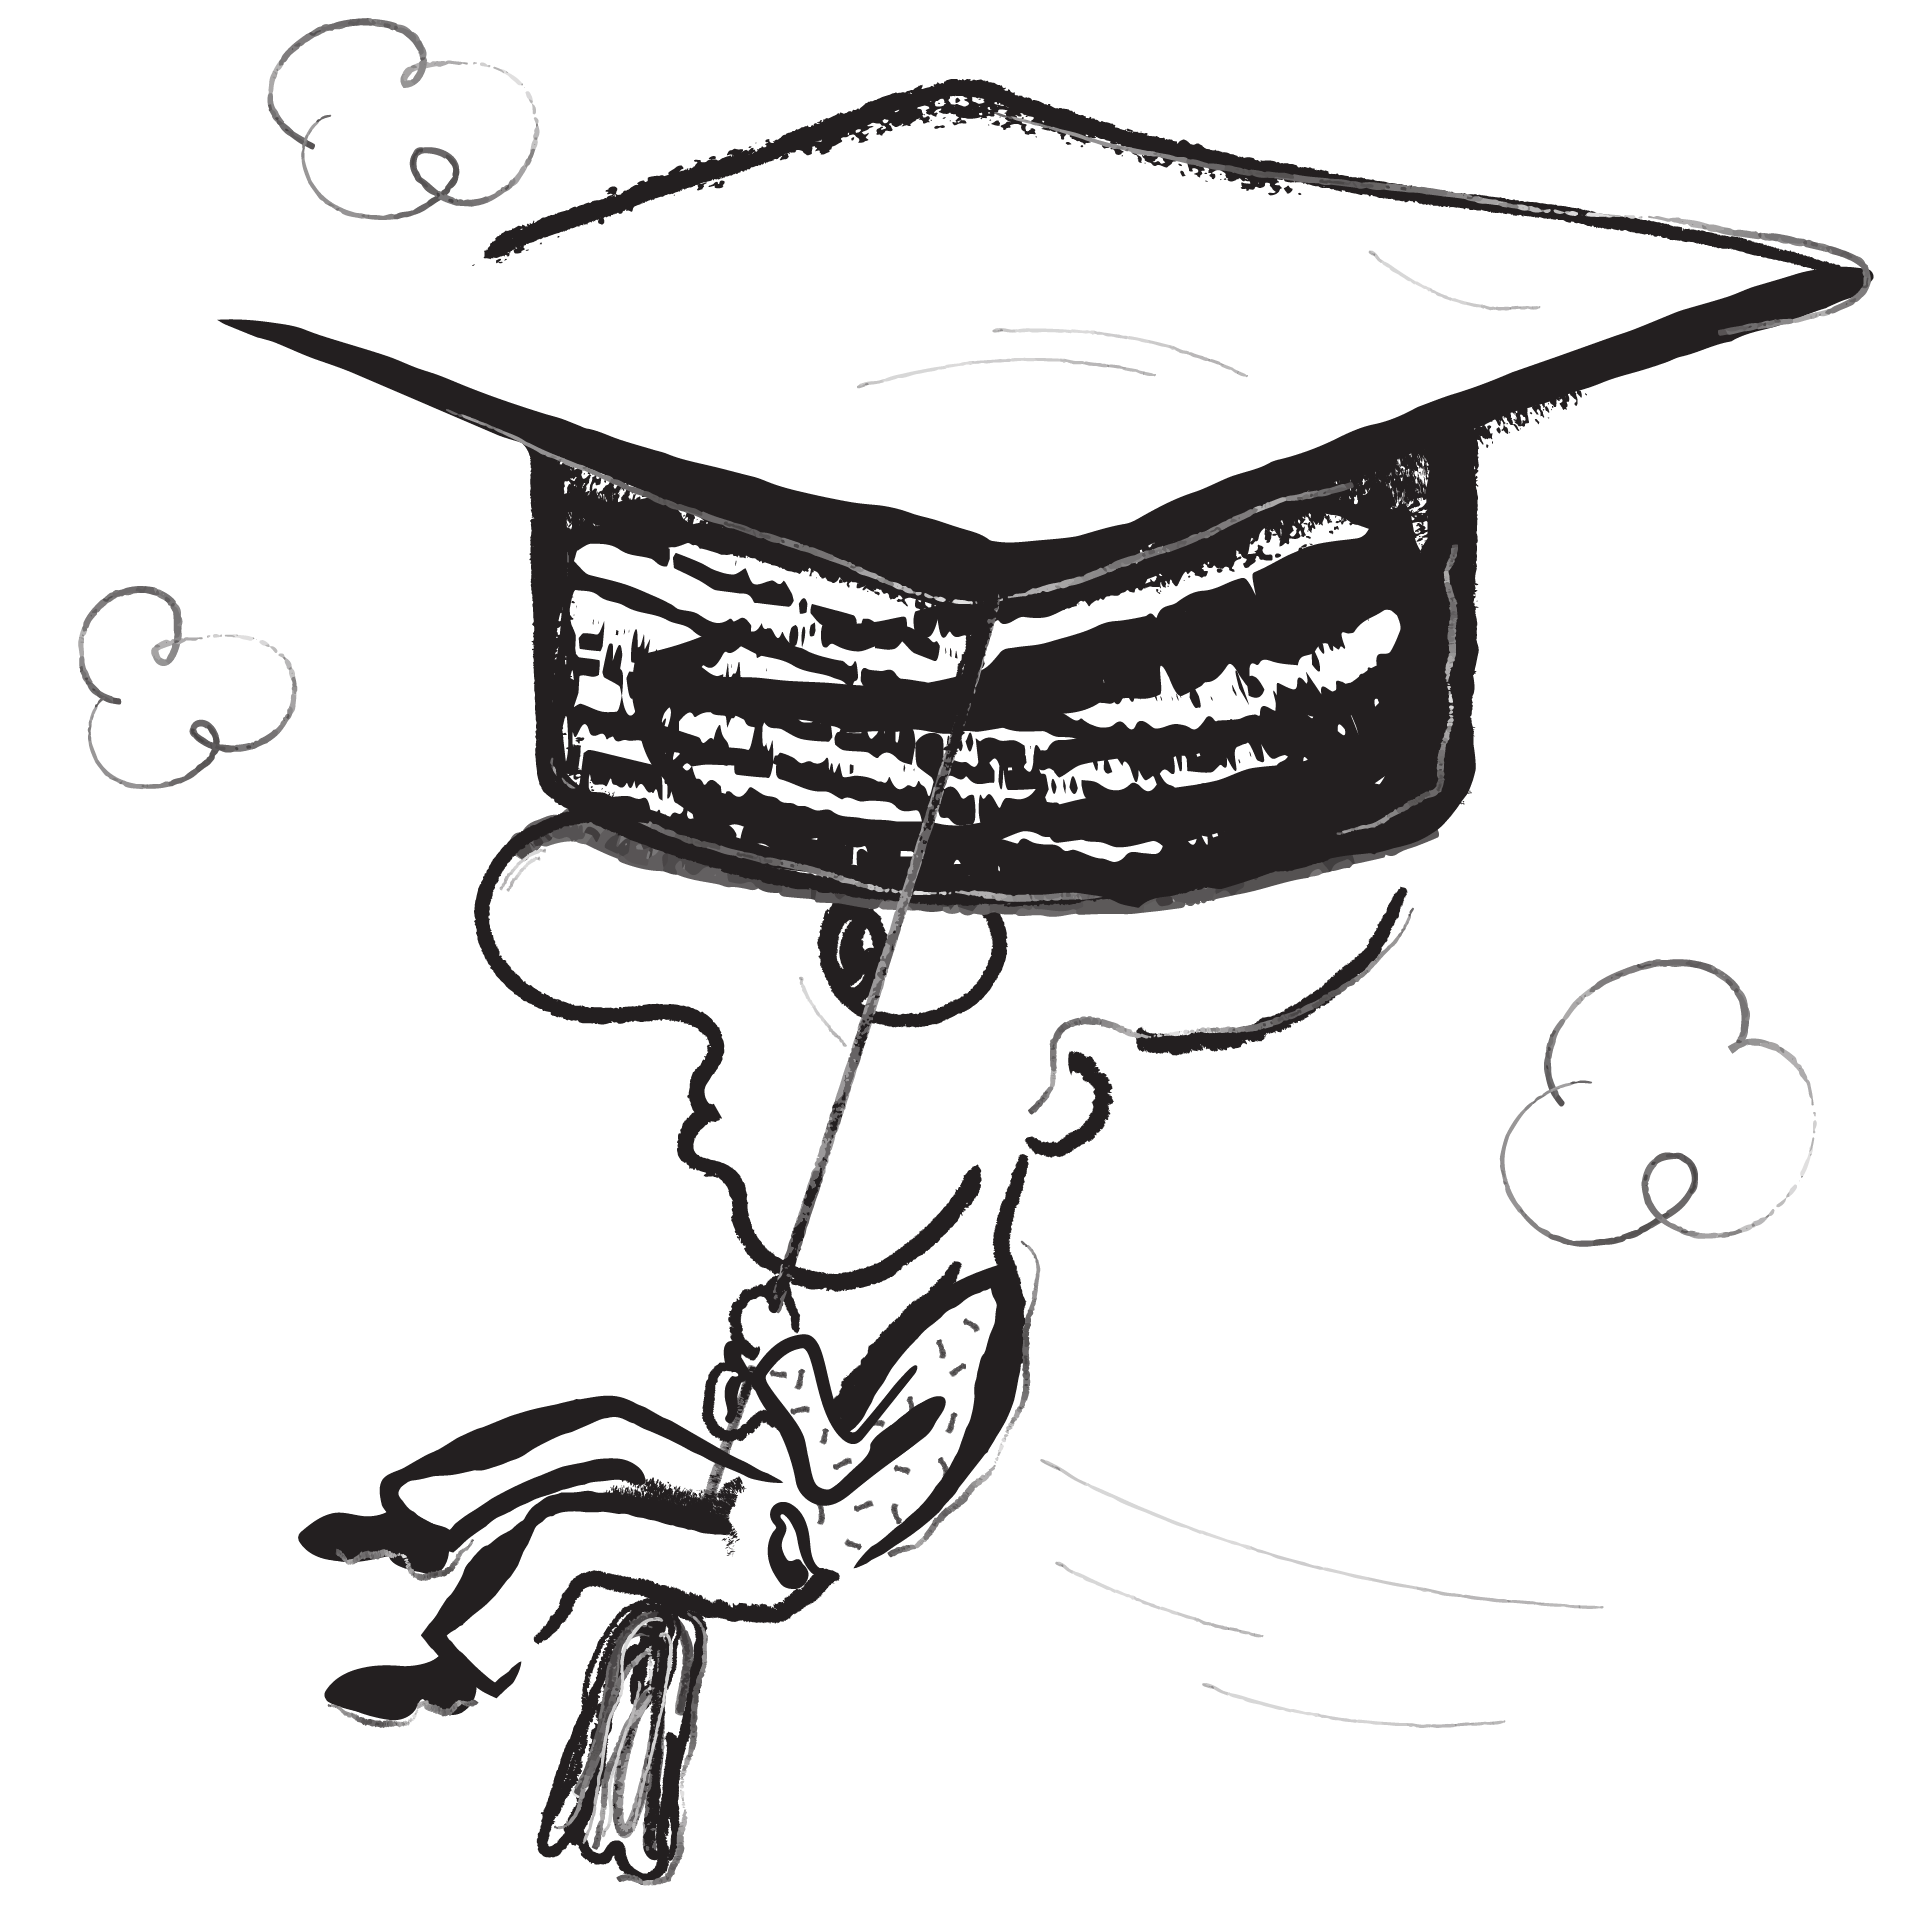
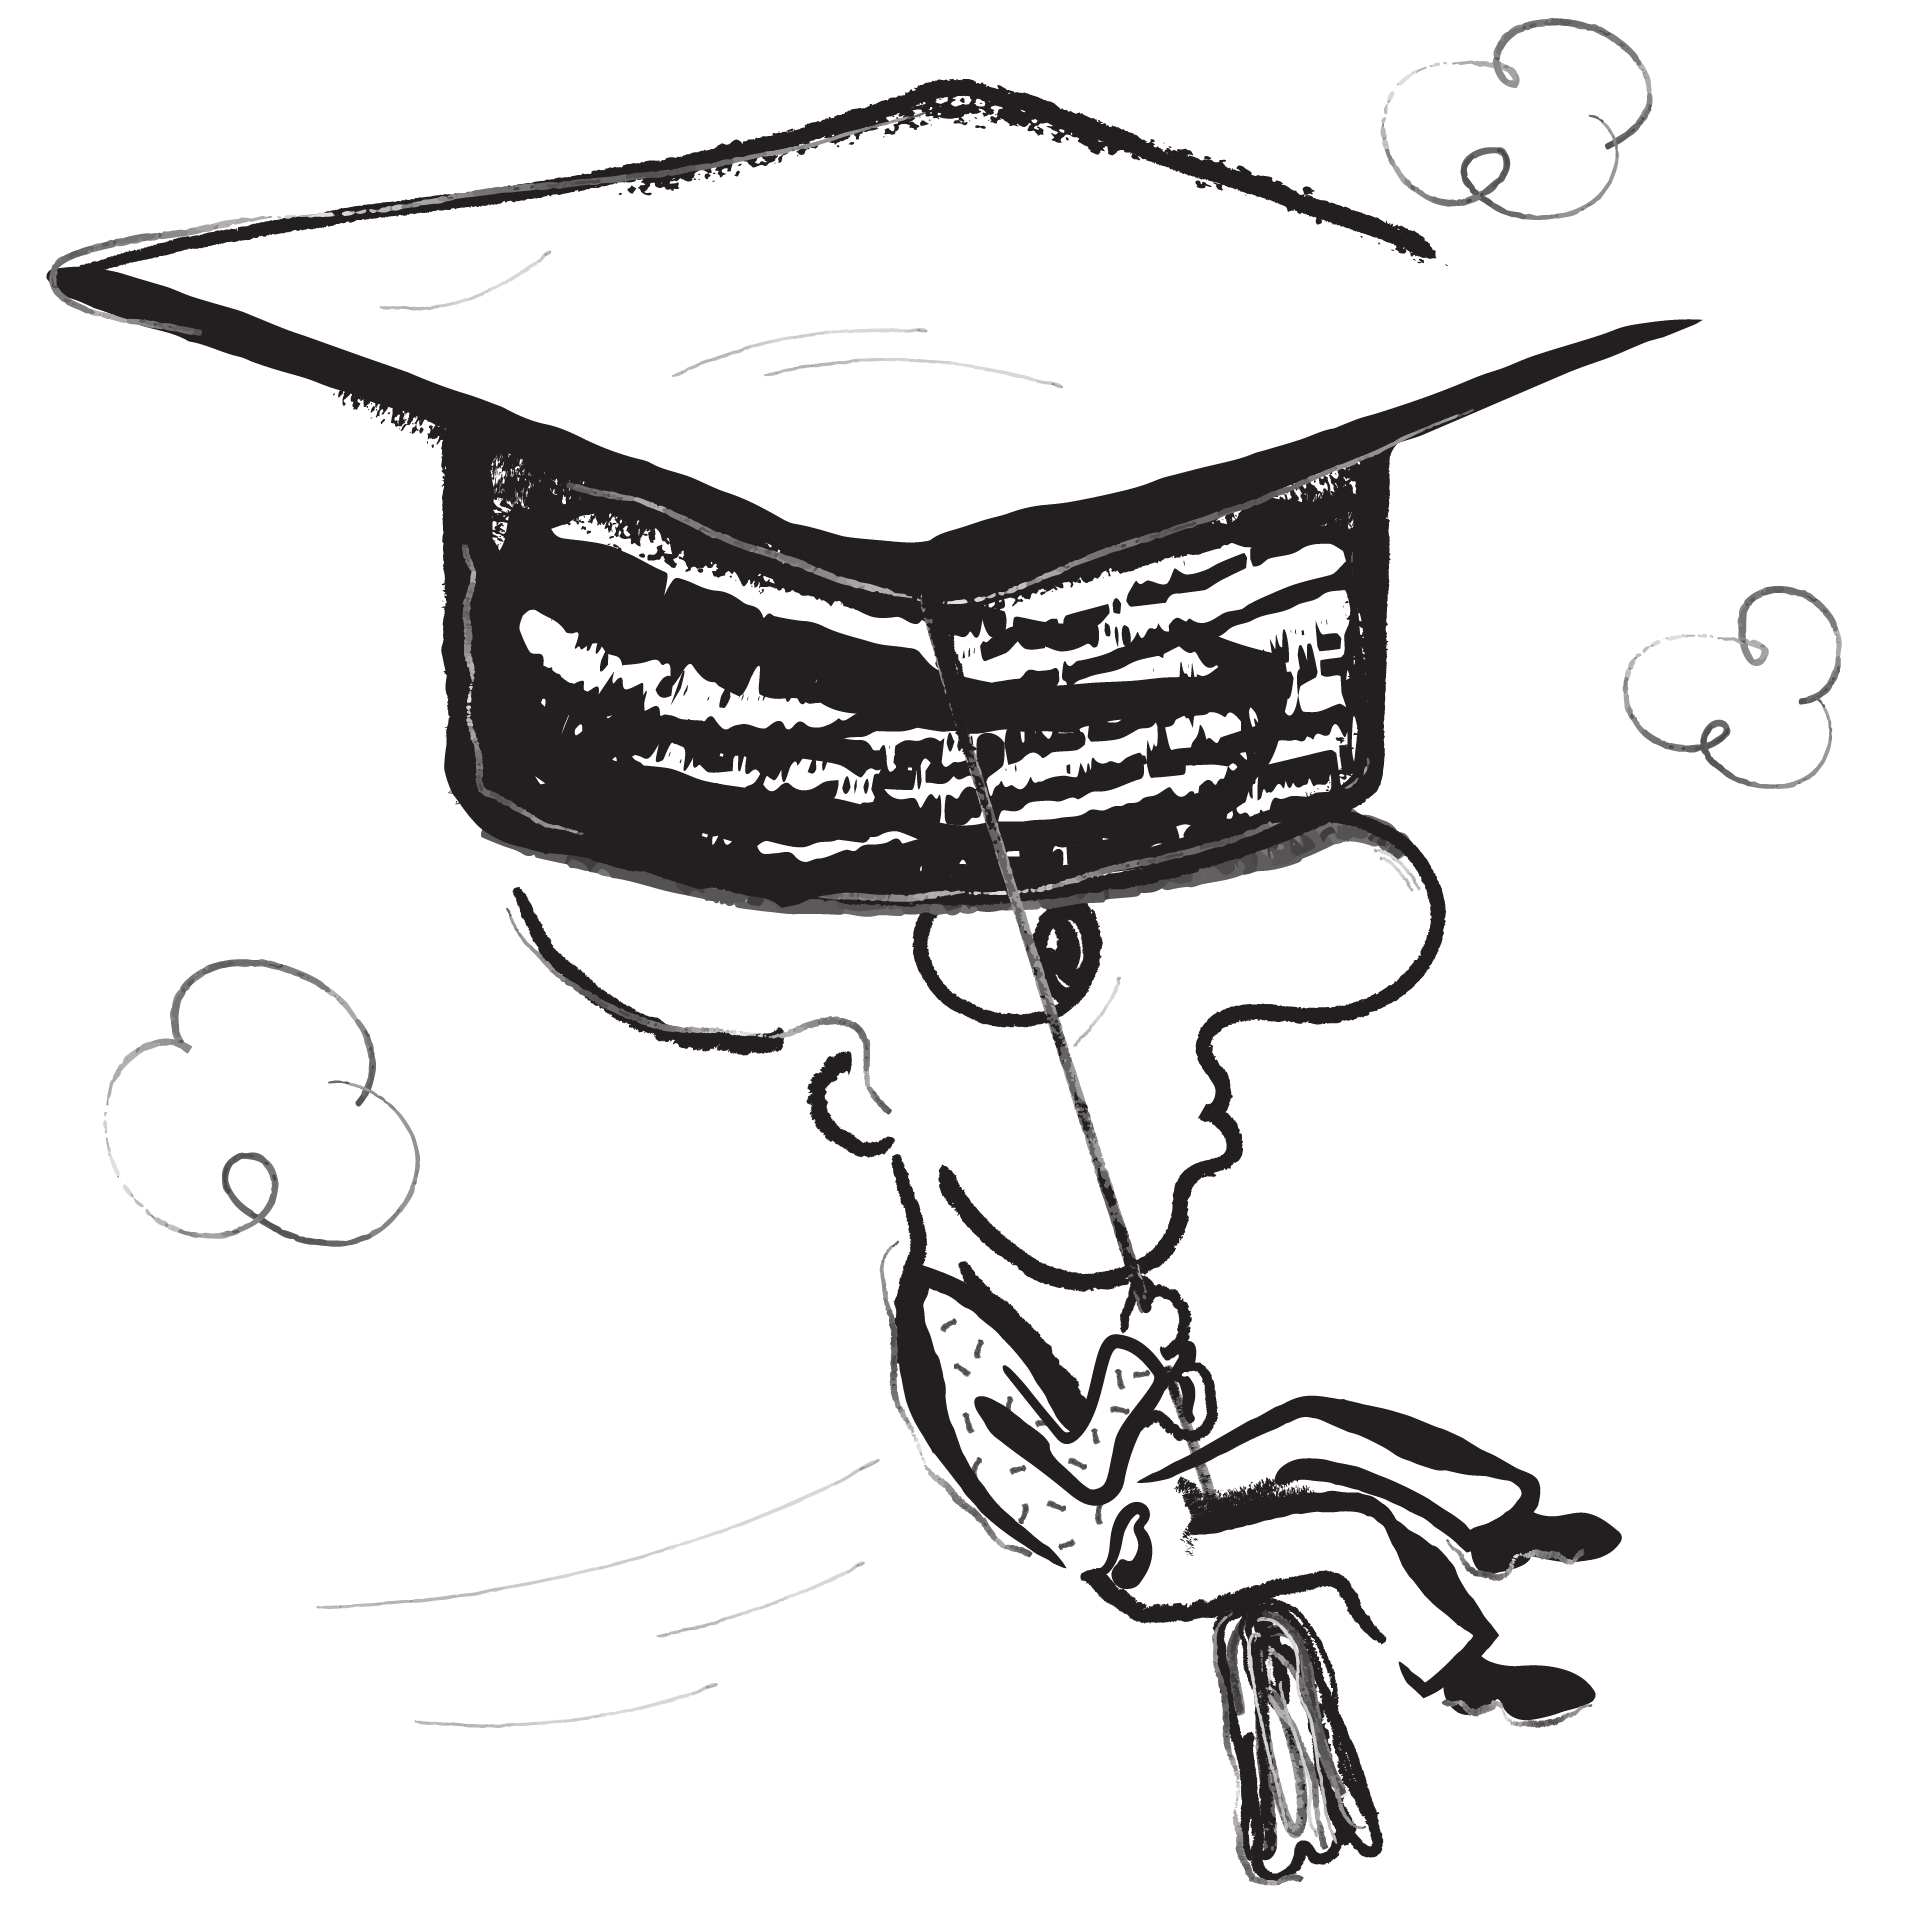
skills

diff --git a/components/sections/Skills.tsx b/components/sections/Skills.tsx
@@ -1,0 +1,114 @@
+import React from 'react';
+import styled from 'styled-components';
+import Image from 'next/image';
+
+import { Container, Section } from '@components/global';
+
+const Skills: React.FC = () => {
+  return (
+    <Section id="skills">
+      <StyledContainer>
+        <SkillsGrid>
+          <div>
+            <h2>Languages</h2>
+            <p>
+              <ul>
+                <li>JavaScript</li>
+                <li>TypeScript</li>
+                <li>HTML</li>
+                <li>CSS / SCSS</li>
+                <li>C#</li>
+              </ul>
+            </p>
+          </div>
+          <div>
+            <h2>Frameworks</h2>
+            <p>
+              <ul>
+                <li>React.js</li>
+                <li>Next.js</li>
+                <li>Jest</li>
+                <li>Chakra UI</li>
+                <li>Styled Components</li>
+              </ul>
+            </p>
+          </div>
+          <div>
+            <h2>Backend</h2>
+            <p>
+              <ul>
+                <li>ASP.NET Core</li>
+                <li>xUnit</li>
+                <li>NSubstitute / Moq</li>
+                <li>FluentAssertions</li>
+                <li>PostgreSQL</li>
+              </ul>
+            </p>
+          </div>
+          <div>
+            <h2>Other</h2>
+            <p>
+              <ul>
+                <li>Git </li>
+                <li>GitHub</li>
+                <li>Postman</li>
+                <li>SOLID</li>
+                <li>TDD</li>
+              </ul>
+            </p>
+          </div>
+        </SkillsGrid>
+        <Art>
+          <Image
+            src="/images/art/learn_yourself.png"
+            width="100%"
+            height="100%"
+            layout="responsive"
+          />
+        </Art>
+      </StyledContainer>
+    </Section>
+  );
+};
+
+const SkillsGrid = styled.div`
+  padding-top: 150px;
+  margin-left: 40%;
+  display: grid;
+  width: 60%;
+  grid-gap: 50px 0;
+  grid-template-columns: 1fr 1fr;
+  grid-template-rows: 1fr 1fr;
+
+  @media (max-width: ${(props) => props.theme.screen.md}) {
+    margin-left: 5%;
+    width: 100%;
+    padding-top: 0;
+  }
+
+  h2 {
+    margin-bottom: 24px;
+  }
+`;
+
+const Art = styled.figure`
+  width: 1000px;
+  margin: -80px 0;
+  position: absolute;
+  top: 0;
+  right: 67.5%;
+
+  @media (max-width: ${(props) => props.theme.screen.lg}) {
+    top: 20%;
+  }
+
+  @media (max-width: ${(props) => props.theme.screen.md}) {
+    display: none;
+  }
+`;
+
+const StyledContainer = styled(Container)`
+  position: relative;
+`;
+
+export default Skills;

diff --git a/components/sections/About.tsx b/components/sections/About.tsx
@@ -7,7 +7,7 @@ import ExternalLink from '@common/ExternalLink';
 
 const About: React.FC = () => {
   return (
-    <Section id="about">
+    <Section id="about" style={{ paddingBottom: '0' }}>
       <Container>
         <Grid>
           <div>
@@ -24,7 +24,7 @@ const About: React.FC = () => {
               TypeScript, React, Next, C#, ASP.NET Core and PostgreSQL.
             </p>
           </div>
-          <Art>
+          <Art headshot>
             <Image
               src="/images/my_headshot.png"
               width="200px"
@@ -67,10 +67,12 @@ const Grid = styled.div<{ inverse?: boolean }>`
   align-items: center;
   justify-items: center;
   margin: 105px;
+  margin-bottom: 0;
 
   ${(props) =>
     props.inverse &&
     `
+    grid-gap: 100px;
     text-align: left;
     grid-template-columns: 2fr 3fr;
   `}
@@ -106,9 +108,9 @@ const Grid = styled.div<{ inverse?: boolean }>`
   }
 `;
 
-const Art = styled.figure`
+const Art = styled.figure<{ headshot?: boolean }>`
   margin: 0;
-  max-width: 200px;
+  max-width: ${(props) => (props.headshot ? '200px' : '380px')};
   width: 100%;
 `;
 

diff --git a/components/common/NavBar.tsx b/components/common/NavBar.tsx
@@ -6,7 +6,7 @@ import Scrollspy from 'react-scrollspy';
 import { Container } from '@components/global';
 import MenuIcon from '@public/icons/menu.svg';
 
-const NAV_ITEMS = ['About', 'Projects'];
+const NAV_ITEMS = ['About', 'Skills', 'Projects'];
 
 const NavBar: React.FC = ({ ...props }) => {
   const [mobileMenuOpen, setMobileMenuOpen] = useState(false);
@@ -28,7 +28,7 @@ const NavBar: React.FC = ({ ...props }) => {
     <NavListWrapper mobile={mobile}>
       <Scrollspy
         items={NAV_ITEMS.map((item) => item.toLowerCase())}
-        currentClassNAme="active"
+        currentClassName="active"
         mobile={mobile}
         offset={-64}
       >

diff --git a/components/sections/Hero.tsx b/components/sections/Hero.tsx
@@ -52,7 +52,7 @@ const Art = styled.figure`
   margin: 0;
 
   > div {
-    width: 150%;
+    width: 130%;
     margin-bottom: -5%;
 
     @media (max-width: ${(props) => props.theme.screen.md}) {
@@ -65,11 +65,13 @@ const Grid = styled.div`
   display: grid;
   grid-template-columns: 1fr 1fr;
   align-items: center;
-  grid-gap: 250px;
-  
+  grid-gap: 200px;
+  margin-left: -50px;
+
   @media (max-width: ${(props) => props.theme.screen.md}) {
     grid-template-columns: 1fr;
     grid-gap: 80px;
+    margin-left: 0;
 
     > ${Art} {
       order: 2;

diff --git a/pages/index.tsx b/pages/index.tsx
@@ -4,6 +4,7 @@ import NavBar from '@common/NavBar';
 
 import Hero from '@sections/Hero';
 import About from '@sections/About';
+import Skills from '@sections/Skills';
 import Projects from '@sections/Projects';
 import Footer from '@sections/Footer';
 
@@ -13,6 +14,7 @@ const Home: React.FC = () => {
       <NavBar />
       <Hero />
       <About />
+      <Skills />
       <Projects />
       <Footer />
     </>
